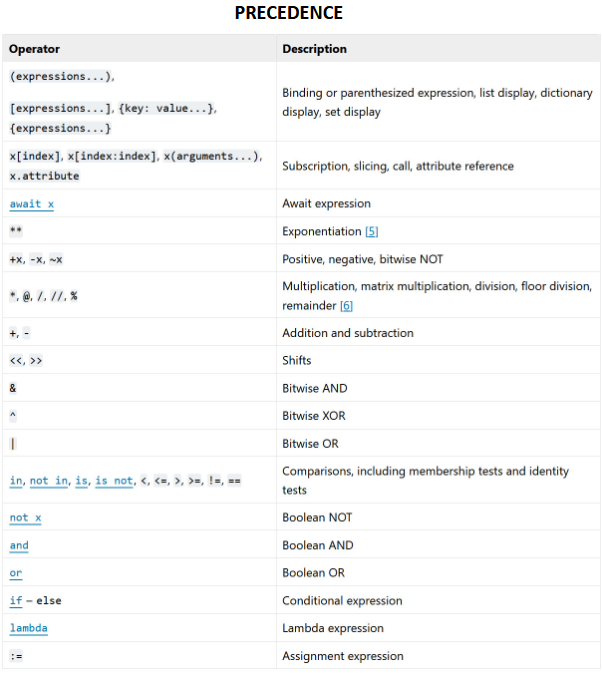
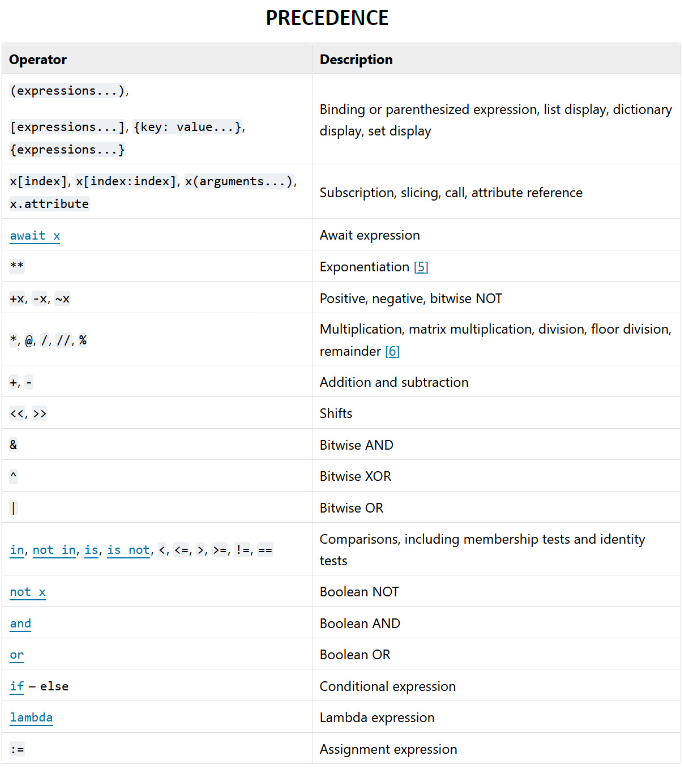
adjusted image size

diff --git a/README.md b/README.md
@@ -95,10 +95,10 @@ python -m pip install scipy
 ---
 # Appendix 📌
 Cheatsheet for subscripting and operator precedence
-![subscripting](appendix1.png)<br>
-![operator precedence](appendix2.png)<br>
-![Special Character](special_character.png)
-![Unicode for symbol](unicode_symbol.png)
+<img src="appendix1.png" width="800" height="600" alt="subscripting"><br>
+<img src="appendix2.png" width="700" height="700" alt="operator precedence"><br>
+<img src="special_character.png" width="600" height="400" alt="Special Character"><br>
+<img src="unicode_symbol.png" width="600" height="400" alt="Unicode Symbol"><br>
 
 
 All the colors for matplotlib<br>
